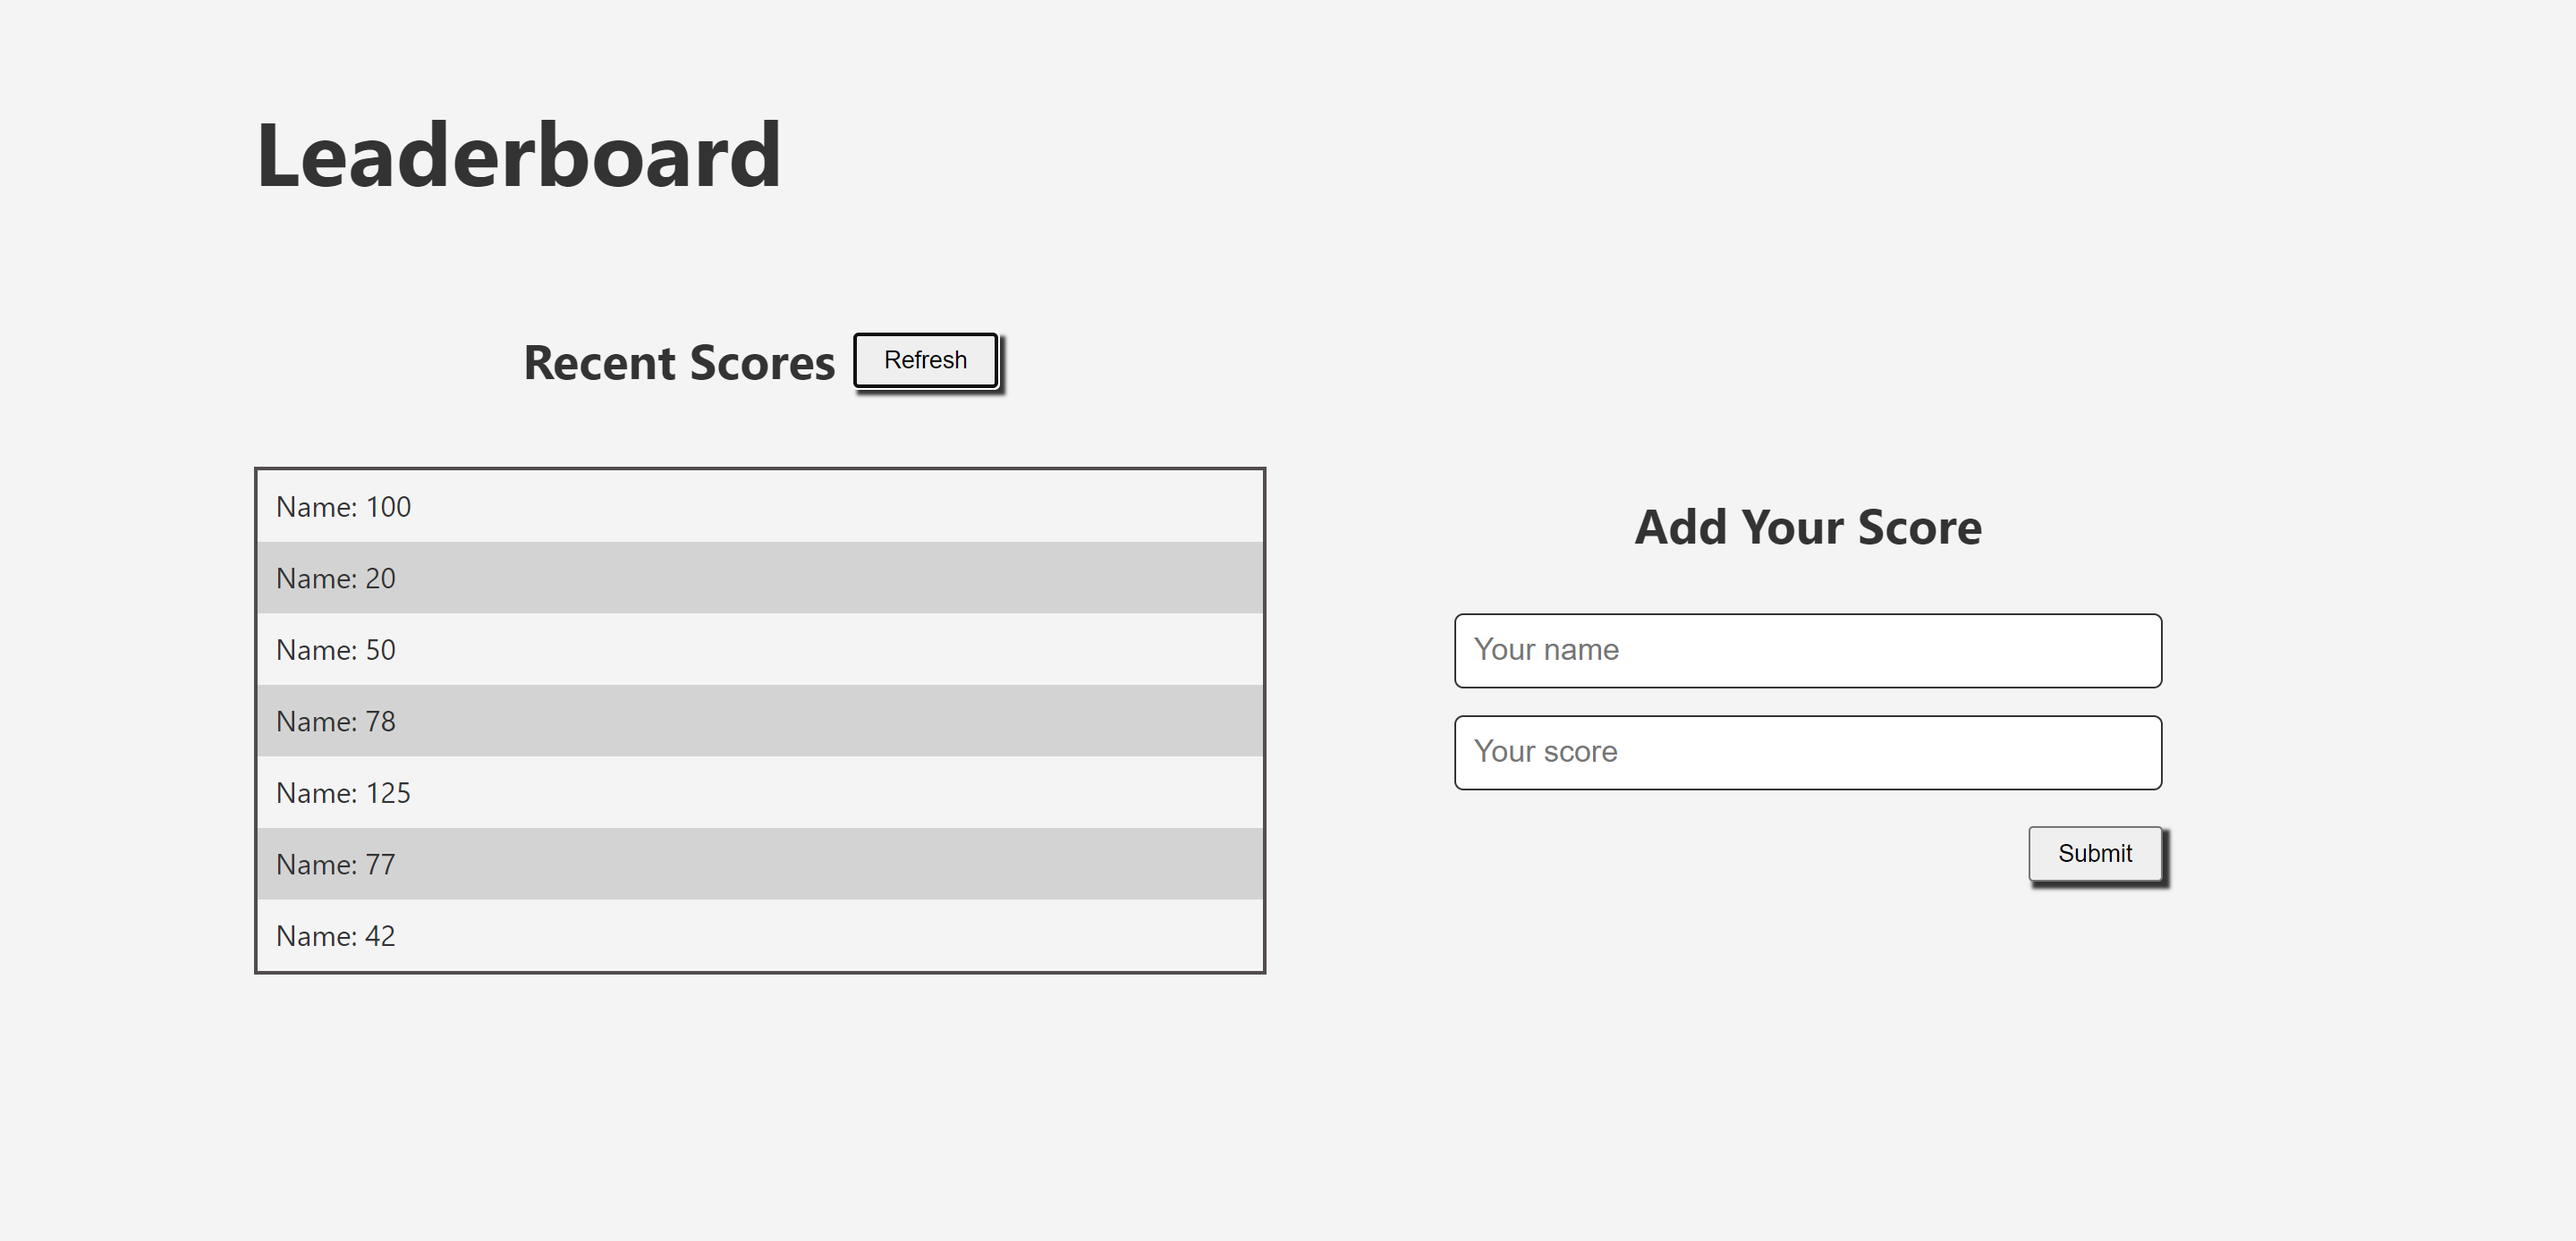
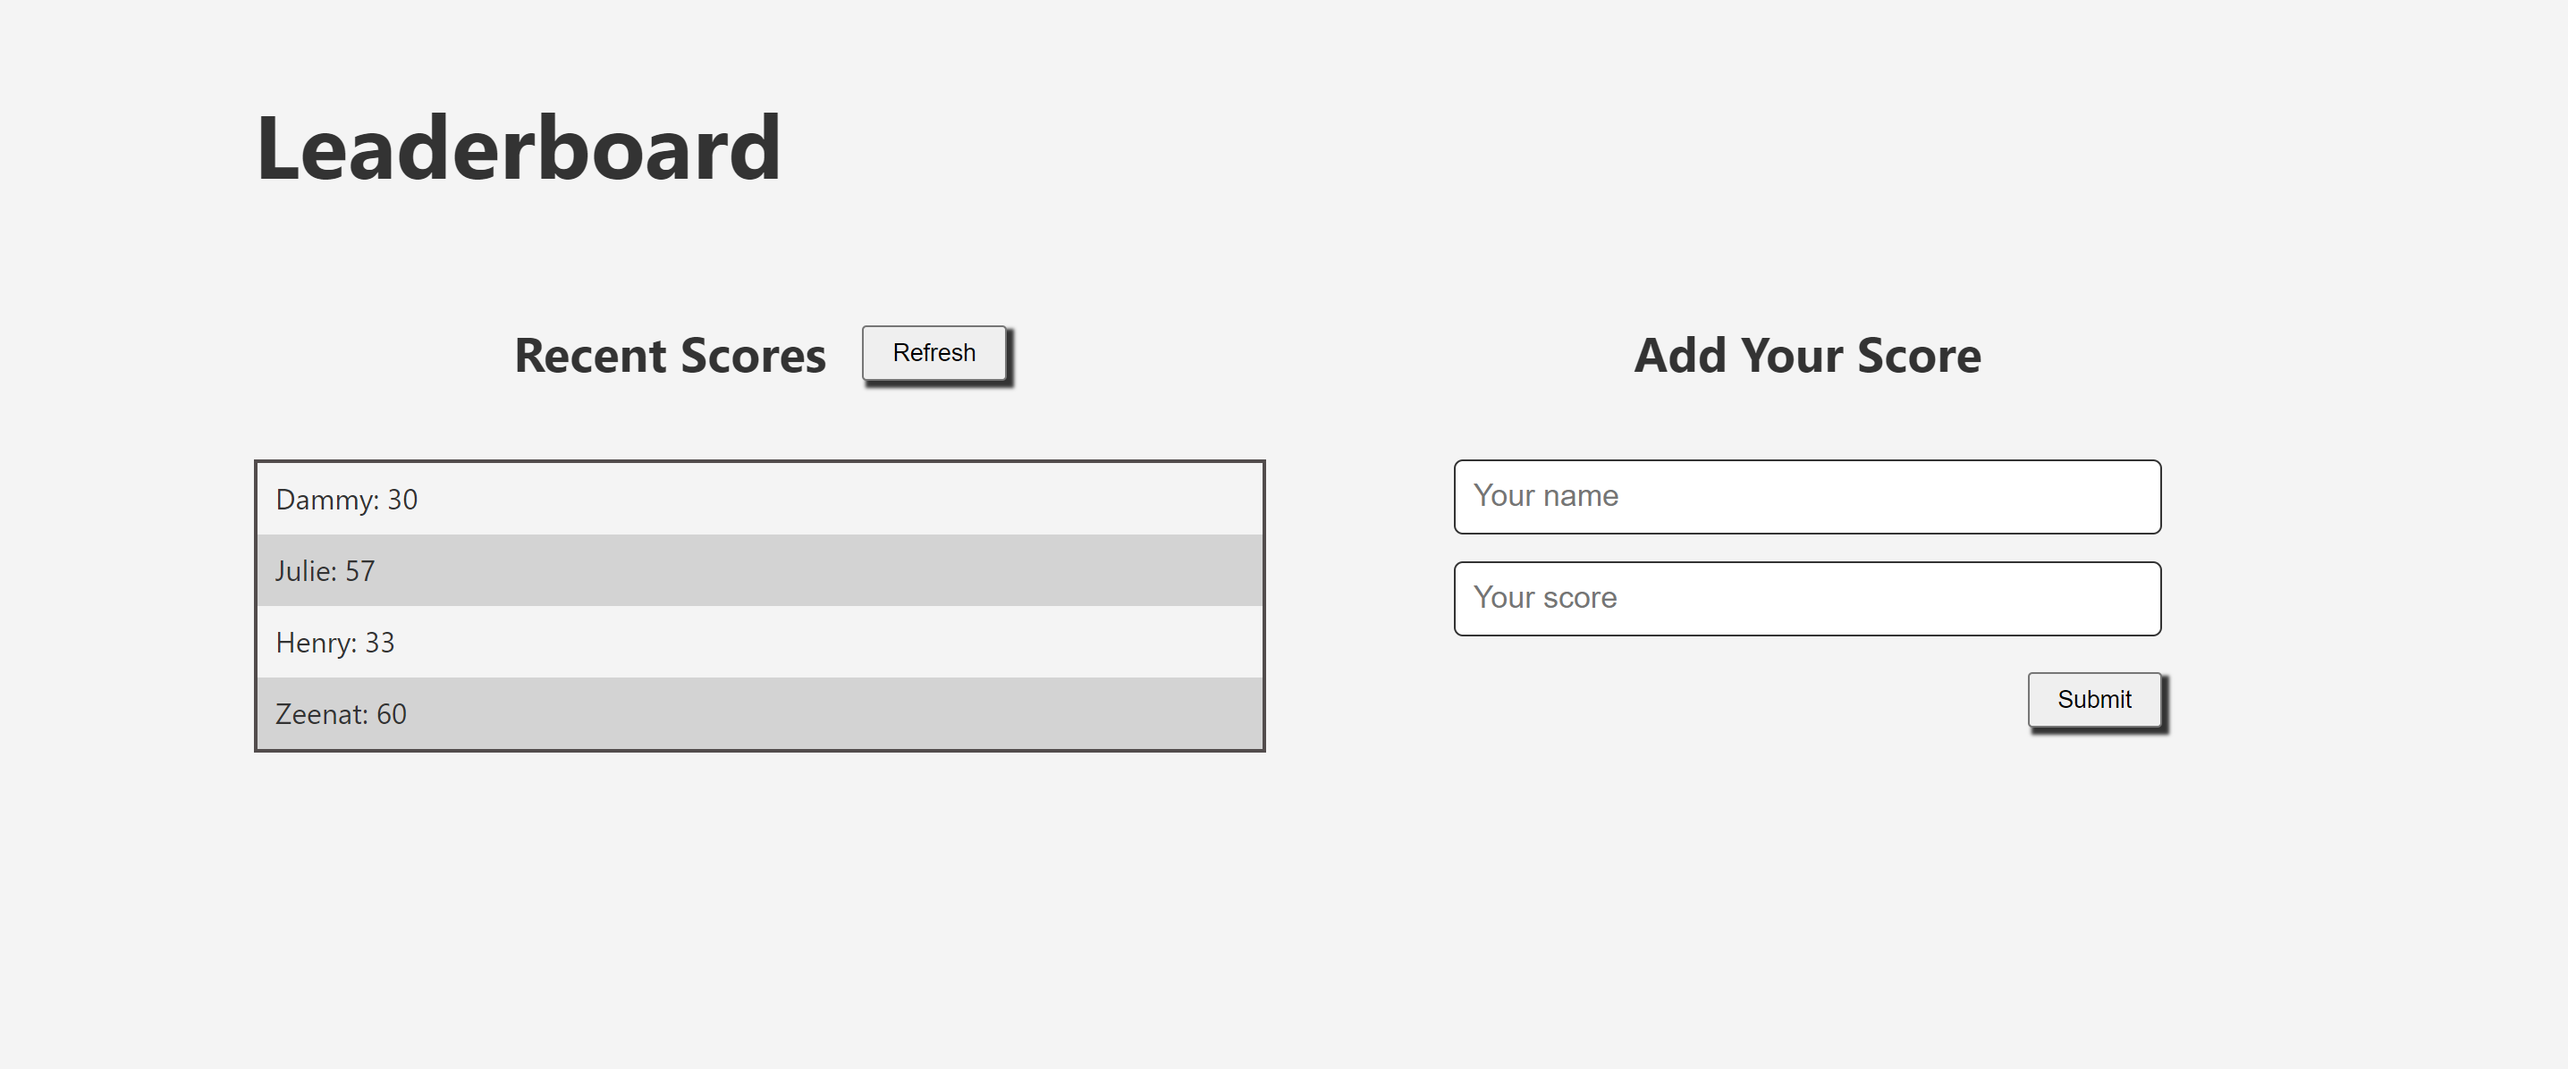
Change Screenshots and Fx Linter Errors

diff --git a/dist/main.js b/dist/main.js
@@ -1,1 +1,1 @@
-(()=>{"use strict";var n,e,t,r,o,a,i,s,c,u,p,d,l,f,m={426:(n,e,t)=>{t.d(e,{Z:()=>a});var r=t(645),o=t.n(r)()((function(n){return n[1]}));o.push([n.id,"* {\n  margin: 0;\n  padding: 0;\n  box-sizing: border-box;\n}\n\nbody {\n  font-family: 'Segoe UI', Tahoma, Geneva, Verdana, sans-serif;\n  line-height: 1.5;\n  background-color: #f4f4f4;\n  color: #333;\n}\n\nh1 {\n  font-size: 40px;\n}\n\nh2 {\n  font-size: 27px;\n}\n\nbutton {\n  padding: 6px 15px;\n  box-shadow: 3px 3px 2px 1px #333;\n  transition: 300ms ease-in-out;\n  cursor: pointer;\n}\n\nbutton:hover {\n  background-color: #333;\n  color: #eee;\n  transform: scale(0.98);\n}\n\n#lb-main {\n  height: 100%;\n  width: 80%;\n  margin: 50px auto;\n  text-align: center;\n}\n\n.structure {\n  margin-top: 20px;\n}\n\n.recent-scores {\n  display: flex;\n  gap: 10px;\n  align-items: center;\n  justify-content: center;\n  margin: 0 auto;\n}\n\n.table {\n  margin: 40px 0;\n  padding: 0;\n  list-style: none;\n  border: 2px solid rgb(82, 76, 76);\n}\n\n.table li {\n  text-align: start;\n  padding: 8px 10px;\n}\n\n.table li:nth-child(even) {\n  background-color: lightgray;\n}\n\n#form-section h2 {\n  margin-bottom: 40px;\n}\n\n#form {\n  display: flex;\n  flex-direction: column;\n  gap: 15px;\n  width: 80%;\n  margin: 0 auto;\n}\n\ninput {\n  padding: 7px 10px;\n  border-radius: 5px;\n  outline: none;\n  border: 1px solid #333;\n  font-size: 17px;\n}\n\n#form-section button {\n  align-self: flex-end;\n  margin-top: 5px;\n}\n\n@media all and (min-width: 768px) {\n  h1 {\n    text-align: start;\n    font-size: 50px;\n  }\n\n  .structure {\n    margin-top: 60px;\n    display: grid;\n    grid-template-columns: repeat(2, 1fr);\n    gap: 20px;\n  }\n\n  #form {\n    width: 70%;\n    margin: 0 auto;\n  }\n\n  input {\n    padding: 10px;\n  }\n\n  .recent-scores {\n    gap: 20px;\n  }\n}\n",""]);const a=o},645:n=>{n.exports=function(n){var e=[];return e.toString=function(){return this.map((function(e){var t=n(e);return e[2]?"@media ".concat(e[2]," {").concat(t,"}"):t})).join("")},e.i=function(n,t,r){"string"==typeof n&&(n=[[null,n,""]]);var o={};if(r)for(var a=0;a<this.length;a++){var i=this[a][0];null!=i&&(o[i]=!0)}for(var s=0;s<n.length;s++){var c=[].concat(n[s]);r&&o[c[0]]||(t&&(c[2]?c[2]="".concat(t," and ").concat(c[2]):c[2]=t),e.push(c))}},e}},379:n=>{var e=[];function t(n){for(var t=-1,r=0;r<e.length;r++)if(e[r].identifier===n){t=r;break}return t}function r(n,r){for(var a={},i=[],s=0;s<n.length;s++){var c=n[s],u=r.base?c[0]+r.base:c[0],p=a[u]||0,d="".concat(u," ").concat(p);a[u]=p+1;var l=t(d),f={css:c[1],media:c[2],sourceMap:c[3]};-1!==l?(e[l].references++,e[l].updater(f)):e.push({identifier:d,updater:o(f,r),references:1}),i.push(d)}return i}function o(n,e){var t=e.domAPI(e);return t.update(n),function(e){if(e){if(e.css===n.css&&e.media===n.media&&e.sourceMap===n.sourceMap)return;t.update(n=e)}else t.remove()}}n.exports=function(n,o){var a=r(n=n||[],o=o||{});return function(n){n=n||[];for(var i=0;i<a.length;i++){var s=t(a[i]);e[s].references--}for(var c=r(n,o),u=0;u<a.length;u++){var p=t(a[u]);0===e[p].references&&(e[p].updater(),e.splice(p,1))}a=c}}},569:n=>{var e={};n.exports=function(n,t){var r=function(n){if(void 0===e[n]){var t=document.querySelector(n);if(window.HTMLIFrameElement&&t instanceof window.HTMLIFrameElement)try{t=t.contentDocument.head}catch(n){t=null}e[n]=t}return e[n]}(n);if(!r)throw new Error("Couldn't find a style target. This probably means that the value for the 'insert' parameter is invalid.");r.appendChild(t)}},216:n=>{n.exports=function(n){var e=document.createElement("style");return n.setAttributes(e,n.attributes),n.insert(e),e}},565:(n,e,t)=>{n.exports=function(n){var e=t.nc;e&&n.setAttribute("nonce",e)}},795:n=>{n.exports=function(n){var e=n.insertStyleElement(n);return{update:function(t){!function(n,e,t){var r=t.css,o=t.media,a=t.sourceMap;o?n.setAttribute("media",o):n.removeAttribute("media"),a&&"undefined"!=typeof btoa&&(r+="\n/*# sourceMappingURL=data:application/json;base64,".concat(btoa(unescape(encodeURIComponent(JSON.stringify(a))))," */")),e.styleTagTransform(r,n)}(e,n,t)},remove:function(){!function(n){if(null===n.parentNode)return!1;n.parentNode.removeChild(n)}(e)}}}},589:n=>{n.exports=function(n,e){if(e.styleSheet)e.styleSheet.cssText=n;else{for(;e.firstChild;)e.removeChild(e.firstChild);e.appendChild(document.createTextNode(n))}}}},x={};function g(n){var e=x[n];if(void 0!==e)return e.exports;var t=x[n]={id:n,exports:{}};return m[n](t,t.exports,g),t.exports}g.n=n=>{var e=n&&n.__esModule?()=>n.default:()=>n;return g.d(e,{a:e}),e},g.d=(n,e)=>{for(var t in e)g.o(e,t)&&!g.o(n,t)&&Object.defineProperty(n,t,{enumerable:!0,get:e[t]})},g.o=(n,e)=>Object.prototype.hasOwnProperty.call(n,e),n=g(379),e=g.n(n),t=g(795),r=g.n(t),o=g(569),a=g.n(o),i=g(565),s=g.n(i),c=g(216),u=g.n(c),p=g(589),d=g.n(p),l=g(426),(f={}).styleTagTransform=d(),f.setAttributes=s(),f.insert=a().bind(null,"head"),f.domAPI=r(),f.insertStyleElement=u(),e()(l.Z,f),l.Z&&l.Z.locals&&l.Z.locals})();
+(()=>{"use strict";var n={426:(n,r,e)=>{e.d(r,{Z:()=>a});var t=e(645),o=e.n(t)()((function(n){return n[1]}));o.push([n.id,"* {\r\n  margin: 0;\r\n  padding: 0;\r\n  box-sizing: border-box;\r\n}\r\n\r\nbody {\r\n  font-family: 'Segoe UI', Tahoma, Geneva, Verdana, sans-serif;\r\n  line-height: 1.5;\r\n  background-color: #f4f4f4;\r\n  color: #333;\r\n}\r\n\r\nh1 {\r\n  font-size: 40px;\r\n}\r\n\r\nh2 {\r\n  font-size: 27px;\r\n}\r\n\r\nbutton {\r\n  padding: 6px 15px;\r\n  box-shadow: 3px 3px 2px 1px #333;\r\n  transition: 300ms ease-in-out;\r\n  cursor: pointer;\r\n}\r\n\r\nbutton:hover {\r\n  background-color: #333;\r\n  color: #eee;\r\n  transform: scale(0.98);\r\n}\r\n\r\n#lb-main {\r\n  height: 100%;\r\n  width: 80%;\r\n  margin: 50px auto;\r\n  text-align: center;\r\n}\r\n\r\n.structure {\r\n  margin-top: 20px;\r\n}\r\n\r\n.recent-scores {\r\n  display: flex;\r\n  gap: 10px;\r\n  align-items: center;\r\n  justify-content: center;\r\n  margin: 0 auto;\r\n}\r\n\r\n#table {\r\n  margin: 40px 0;\r\n  padding: 0;\r\n  list-style: none;\r\n  border: 2px solid rgb(82, 76, 76);\r\n}\r\n\r\n#table li {\r\n  text-align: start;\r\n  padding: 8px 10px;\r\n}\r\n\r\n#table li:nth-child(even) {\r\n  background-color: lightgray;\r\n}\r\n\r\n#form-section h2 {\r\n  margin-bottom: 40px;\r\n}\r\n\r\n#form {\r\n  display: flex;\r\n  flex-direction: column;\r\n  gap: 15px;\r\n  width: 80%;\r\n  margin: 0 auto;\r\n}\r\n\r\ninput {\r\n  padding: 7px 10px;\r\n  border-radius: 5px;\r\n  outline: none;\r\n  border: 1px solid #333;\r\n  font-size: 17px;\r\n}\r\n\r\n#error-msg {\r\n  color: rgb(228, 28, 28);\r\n  font-size: 14px;\r\n  font-weight: 500;\r\n  font-style: italic;\r\n  transition: all ease-in-out;\r\n  display: none;\r\n}\r\n\r\n#form-section button {\r\n  align-self: flex-end;\r\n  margin-top: 5px;\r\n}\r\n\r\n@media all and (min-width: 768px) {\r\n  h1 {\r\n    text-align: start;\r\n    font-size: 50px;\r\n  }\r\n\r\n  .structure {\r\n    margin-top: 60px;\r\n    display: grid;\r\n    grid-template-columns: repeat(2, 1fr);\r\n    gap: 20px;\r\n  }\r\n\r\n  #form {\r\n    width: 70%;\r\n    margin: 0 auto;\r\n  }\r\n\r\n  input {\r\n    padding: 10px;\r\n  }\r\n\r\n  .recent-scores {\r\n    gap: 20px;\r\n  }\r\n}\r\n",""]);const a=o},645:n=>{n.exports=function(n){var r=[];return r.toString=function(){return this.map((function(r){var e=n(r);return r[2]?"@media ".concat(r[2]," {").concat(e,"}"):e})).join("")},r.i=function(n,e,t){"string"==typeof n&&(n=[[null,n,""]]);var o={};if(t)for(var a=0;a<this.length;a++){var i=this[a][0];null!=i&&(o[i]=!0)}for(var s=0;s<n.length;s++){var c=[].concat(n[s]);t&&o[c[0]]||(e&&(c[2]?c[2]="".concat(e," and ").concat(c[2]):c[2]=e),r.push(c))}},r}},379:n=>{var r=[];function e(n){for(var e=-1,t=0;t<r.length;t++)if(r[t].identifier===n){e=t;break}return e}function t(n,t){for(var a={},i=[],s=0;s<n.length;s++){var c=n[s],l=t.base?c[0]+t.base:c[0],u=a[l]||0,d="".concat(l," ").concat(u);a[l]=u+1;var p=e(d),f={css:c[1],media:c[2],sourceMap:c[3]};-1!==p?(r[p].references++,r[p].updater(f)):r.push({identifier:d,updater:o(f,t),references:1}),i.push(d)}return i}function o(n,r){var e=r.domAPI(r);return e.update(n),function(r){if(r){if(r.css===n.css&&r.media===n.media&&r.sourceMap===n.sourceMap)return;e.update(n=r)}else e.remove()}}n.exports=function(n,o){var a=t(n=n||[],o=o||{});return function(n){n=n||[];for(var i=0;i<a.length;i++){var s=e(a[i]);r[s].references--}for(var c=t(n,o),l=0;l<a.length;l++){var u=e(a[l]);0===r[u].references&&(r[u].updater(),r.splice(u,1))}a=c}}},569:n=>{var r={};n.exports=function(n,e){var t=function(n){if(void 0===r[n]){var e=document.querySelector(n);if(window.HTMLIFrameElement&&e instanceof window.HTMLIFrameElement)try{e=e.contentDocument.head}catch(n){e=null}r[n]=e}return r[n]}(n);if(!t)throw new Error("Couldn't find a style target. This probably means that the value for the 'insert' parameter is invalid.");t.appendChild(e)}},216:n=>{n.exports=function(n){var r=document.createElement("style");return n.setAttributes(r,n.attributes),n.insert(r),r}},565:(n,r,e)=>{n.exports=function(n){var r=e.nc;r&&n.setAttribute("nonce",r)}},795:n=>{n.exports=function(n){var r=n.insertStyleElement(n);return{update:function(e){!function(n,r,e){var t=e.css,o=e.media,a=e.sourceMap;o?n.setAttribute("media",o):n.removeAttribute("media"),a&&"undefined"!=typeof btoa&&(t+="\n/*# sourceMappingURL=data:application/json;base64,".concat(btoa(unescape(encodeURIComponent(JSON.stringify(a))))," */")),r.styleTagTransform(t,n)}(r,n,e)},remove:function(){!function(n){if(null===n.parentNode)return!1;n.parentNode.removeChild(n)}(r)}}}},589:n=>{n.exports=function(n,r){if(r.styleSheet)r.styleSheet.cssText=n;else{for(;r.firstChild;)r.removeChild(r.firstChild);r.appendChild(document.createTextNode(n))}}}},r={};function e(t){var o=r[t];if(void 0!==o)return o.exports;var a=r[t]={id:t,exports:{}};return n[t](a,a.exports,e),a.exports}e.n=n=>{var r=n&&n.__esModule?()=>n.default:()=>n;return e.d(r,{a:r}),r},e.d=(n,r)=>{for(var t in r)e.o(r,t)&&!e.o(n,t)&&Object.defineProperty(n,t,{enumerable:!0,get:r[t]})},e.o=(n,r)=>Object.prototype.hasOwnProperty.call(n,r),(()=>{var n=e(379),r=e.n(n),t=e(795),o=e.n(t),a=e(569),i=e.n(a),s=e(565),c=e.n(s),l=e(216),u=e.n(l),d=e(589),p=e.n(d),f=e(426),m={};m.styleTagTransform=p(),m.setAttributes=c(),m.insert=i().bind(null,"head"),m.domAPI=o(),m.insertStyleElement=u(),r()(f.Z,m),f.Z&&f.Z.locals&&f.Z.locals;const g=document.getElementById("name"),h=document.getElementById("score"),v=async n=>(await fetch(n)).json(),x=n=>{const r=document.getElementById("table");r.innerHTML="",n.forEach((n=>{const e=`<li class="name-scores">${n.user}: ${n.score}</li>`;r.innerHTML+=e}))},b=document.getElementById("refresh"),y=document.getElementById("form"),E="https://us-central1-js-capstone-backend.cloudfunctions.net/api/games/GDUN7EKtNyCRpmru02cT/scores";b.addEventListener("click",(()=>{v(E).then((n=>x(n.result)))})),y.addEventListener("submit",(n=>{n.preventDefault(),(()=>{const n=document.getElementById("score").value,r=document.getElementById("name").value,e=document.getElementById("error-msg");""===r&&""===n||""!==r&&""!==n||(e.style.display="block")})(),(async n=>{const r=await fetch(n,{method:"POST",body:JSON.stringify({user:g.value,score:h.value}),headers:{"Content-type":"application/json; charset=UTF-8"}});g.value="",h.value="",r.json()})(E)})),window.onload=v(E).then((n=>x(n.result)))})()})();

diff --git a/dist/index.html b/dist/index.html
@@ -1,1 +1,1 @@
-<!doctype html><html lang="en"><head><meta charset="UTF-8"><meta name="viewport" content="width=device-width,initial-scale=1"><title>Leaderboard</title><script defer="defer" src="main.js"></script></head><body><main id="lb-main"><h1>Leaderboard</h1><div class="structure"><section class="scores-section"><div class="recent-scores"><h2>Recent Scores</h2><button type="submit">Refresh</button></div><ul class="table"><li class="name-scores">Name: 100</li><li class="name-scores">Name: 20</li><li class="name-scores">Name: 50</li><li class="name-scores">Name: 78</li><li class="name-scores">Name: 125</li><li class="name-scores">Name: 77</li><li class="name-scores">Name: 42</li></ul></section><section id="form-section"><h2>Add Your Score</h2><form id="form"><input placeholder="Your name" class="name"> <input placeholder="Your score" class="score"> <button type="submit">Submit</button></form></section></div></main></body></html>
+<!doctype html><html lang="en"><head><meta charset="UTF-8"><meta name="viewport" content="width=device-width,initial-scale=1"><title>Leaderboard</title><script defer="defer" src="main.js"></script></head><body><main id="lb-main"><h1>Leaderboard</h1><div class="structure"><section class="scores-section"><div class="recent-scores"><h2>Recent Scores</h2><button type="submit" id="refresh">Refresh</button></div><ul id="table"></ul></section><section id="form-section"><h2>Add Your Score</h2><form id="form"><input placeholder="Your name" id="name"> <input type="number" placeholder="Your score" id="score"> <span id="error-msg">Kindly Complete Both Fields!</span> <button type="submit" id="btn">Submit</button></form></section></div></main></body></html>

diff --git a/src/index.js b/src/index.js
@@ -6,7 +6,7 @@ import showError from './showError.js';
 
 const refresh = document.getElementById('refresh');
 const form = document.getElementById('form');
-const gameApi = 'https://us-central1-js-capstone-backend.cloudfunctions.net/api/games/DeKGZHcWUPHgWkIbvJ0X/scores';
+const gameApi = 'https://us-central1-js-capstone-backend.cloudfunctions.net/api/games/GDUN7EKtNyCRpmru02cT/scores';
 
 refresh.addEventListener('click', () => {
   getScores(gameApi).then((data) => showScores(data.result));
